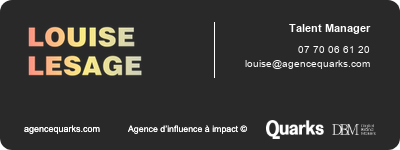
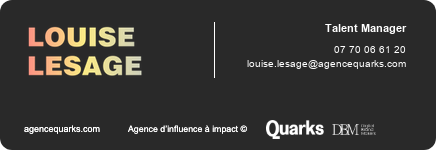
Mettre à jour l’adresse et aérer la signature de Louise
* Mettre à jour l’adresse et aérer la signature de Louise

* Conserver le pied de signature de Louise à sa position initiale

* Conserver le pied de signature de Louise à sa position initiale

diff --git a/signatures/louise-lesage/signature.html b/signatures/louise-lesage/signature.html
@@ -1,15 +1,15 @@
 <!doctype html>
 <html lang="fr"><head><meta charset="utf-8"><meta name="viewport" content="width=device-width,initial-scale=1"><title>Signature — Louise Lesage</title></head>
 <body style="margin:0;padding:0;background:#fff;">
-<table id="signature" role="presentation" width="400" height="150" cellpadding="0" cellspacing="0" border="0" bgcolor="#292929" style="width:400px;height:150px;table-layout:fixed;border-collapse:separate;border-spacing:0;border-radius:12px;background:#292929;color:#fff;font-family:Arial,Helvetica,sans-serif;-webkit-text-size-adjust:100%;">
+<table id="signature" role="presentation" width="436" height="150" cellpadding="0" cellspacing="0" border="0" bgcolor="#292929" style="width:436px;height:150px;table-layout:fixed;border-collapse:separate;border-spacing:0;border-radius:12px;background:#292929;color:#fff;font-family:Arial,Helvetica,sans-serif;-webkit-text-size-adjust:100%;">
 <tr><td style="padding:17px 24px 11px;vertical-align:top;">
-<table role="presentation" width="352" cellpadding="0" cellspacing="0" border="0" style="width:352px;table-layout:fixed;border-collapse:collapse;">
+<table role="presentation" width="388" cellpadding="0" cellspacing="0" border="0" style="width:388px;table-layout:fixed;border-collapse:collapse;">
 <tr><td width="190" height="71" valign="top" style="width:190px;height:71px;padding:0;">
 <img src="https://raw.githubusercontent.com/raphaeldumaslevillain-commits/signature-mail-quarks-lea/main/signatures/louise-lesage/identite.png" width="119" alt="Louise Lesage" style="display:block;border:0;width:118.8px;height:auto;">
-</td><td width="162" valign="top" style="width:162px;padding:5px 0 0;">
-<table role="presentation" width="162" cellpadding="0" cellspacing="0" border="0" style="width:162px;table-layout:fixed;border-collapse:separate;border-spacing:0;"><tr><td align="right" style="border-left:1px solid #fff;padding:0 6px 0 8px;height:55px;vertical-align:top;text-align:right;">
+</td><td width="198" valign="top" style="width:198px;padding:5px 0 0;">
+<table role="presentation" width="198" cellpadding="0" cellspacing="0" border="0" style="width:198px;table-layout:fixed;border-collapse:separate;border-spacing:0;"><tr><td align="right" style="border-left:1px solid #fff;padding:0 6px 0 8px;height:55px;vertical-align:top;text-align:right;">
 <div style="font-size:11px;line-height:15px;font-weight:700;white-space:nowrap;">Talent Manager</div>
-<div style="font-size:10px;line-height:14px;padding-top:6px;white-space:nowrap;"><a href="tel:+33770066120" style="color:#fff;text-decoration:none;">07 70 06 61 20</a><br><a href="mailto:louise@agencequarks.com" style="color:#fff;text-decoration:none;">louise@agencequarks.com</a></div>
+<div style="font-size:10px;line-height:14px;padding-top:6px;white-space:nowrap;"><a href="tel:+33770066120" style="color:#fff;text-decoration:none;">07 70 06 61 20</a><br><a href="mailto:louise.lesage@agencequarks.com" style="color:#fff;text-decoration:none;">louise.lesage@agencequarks.com</a></div>
 </td></tr></table></td></tr>
 <tr><td colspan="2" height="31" style="height:31px;font-size:0;line-height:31px;">&nbsp;</td></tr>
 <tr><td colspan="2" height="20" style="height:20px;padding:0;"><table role="presentation" width="352" cellpadding="0" cellspacing="0" border="0" style="width:352px;table-layout:fixed;border-collapse:collapse;"><tr>

diff --git a/signatures/louise-lesage/index.html b/signatures/louise-lesage/index.html
@@ -1,15 +1,15 @@
 <!doctype html>
 <html lang="fr"><head><meta charset="utf-8"><meta name="viewport" content="width=device-width,initial-scale=1"><title>Signature — Louise Lesage</title></head>
 <body style="margin:0;padding:0;background:#fff;">
-<table id="signature" role="presentation" width="400" height="150" cellpadding="0" cellspacing="0" border="0" bgcolor="#292929" style="width:400px;height:150px;table-layout:fixed;border-collapse:separate;border-spacing:0;border-radius:12px;background:#292929;color:#fff;font-family:Arial,Helvetica,sans-serif;-webkit-text-size-adjust:100%;">
+<table id="signature" role="presentation" width="436" height="150" cellpadding="0" cellspacing="0" border="0" bgcolor="#292929" style="width:436px;height:150px;table-layout:fixed;border-collapse:separate;border-spacing:0;border-radius:12px;background:#292929;color:#fff;font-family:Arial,Helvetica,sans-serif;-webkit-text-size-adjust:100%;">
 <tr><td style="padding:17px 24px 11px;vertical-align:top;">
-<table role="presentation" width="352" cellpadding="0" cellspacing="0" border="0" style="width:352px;table-layout:fixed;border-collapse:collapse;">
+<table role="presentation" width="388" cellpadding="0" cellspacing="0" border="0" style="width:388px;table-layout:fixed;border-collapse:collapse;">
 <tr><td width="190" height="71" valign="top" style="width:190px;height:71px;padding:0;">
 <img src="identite.png" width="119" alt="Louise Lesage" style="display:block;border:0;width:118.8px;height:auto;">
-</td><td width="162" valign="top" style="width:162px;padding:5px 0 0;">
-<table role="presentation" width="162" cellpadding="0" cellspacing="0" border="0" style="width:162px;table-layout:fixed;border-collapse:separate;border-spacing:0;"><tr><td align="right" style="border-left:1px solid #fff;padding:0 6px 0 8px;height:55px;vertical-align:top;text-align:right;">
+</td><td width="198" valign="top" style="width:198px;padding:5px 0 0;">
+<table role="presentation" width="198" cellpadding="0" cellspacing="0" border="0" style="width:198px;table-layout:fixed;border-collapse:separate;border-spacing:0;"><tr><td align="right" style="border-left:1px solid #fff;padding:0 6px 0 8px;height:55px;vertical-align:top;text-align:right;">
 <div style="font-size:11px;line-height:15px;font-weight:700;white-space:nowrap;">Talent Manager</div>
-<div style="font-size:10px;line-height:14px;padding-top:6px;white-space:nowrap;"><a href="tel:+33770066120" style="color:#fff;text-decoration:none;">07 70 06 61 20</a><br><a href="mailto:louise@agencequarks.com" style="color:#fff;text-decoration:none;">louise@agencequarks.com</a></div>
+<div style="font-size:10px;line-height:14px;padding-top:6px;white-space:nowrap;"><a href="tel:+33770066120" style="color:#fff;text-decoration:none;">07 70 06 61 20</a><br><a href="mailto:louise.lesage@agencequarks.com" style="color:#fff;text-decoration:none;">louise.lesage@agencequarks.com</a></div>
 </td></tr></table></td></tr>
 <tr><td colspan="2" height="31" style="height:31px;font-size:0;line-height:31px;">&nbsp;</td></tr>
 <tr><td colspan="2" height="20" style="height:20px;padding:0;"><table role="presentation" width="352" cellpadding="0" cellspacing="0" border="0" style="width:352px;table-layout:fixed;border-collapse:collapse;"><tr>
